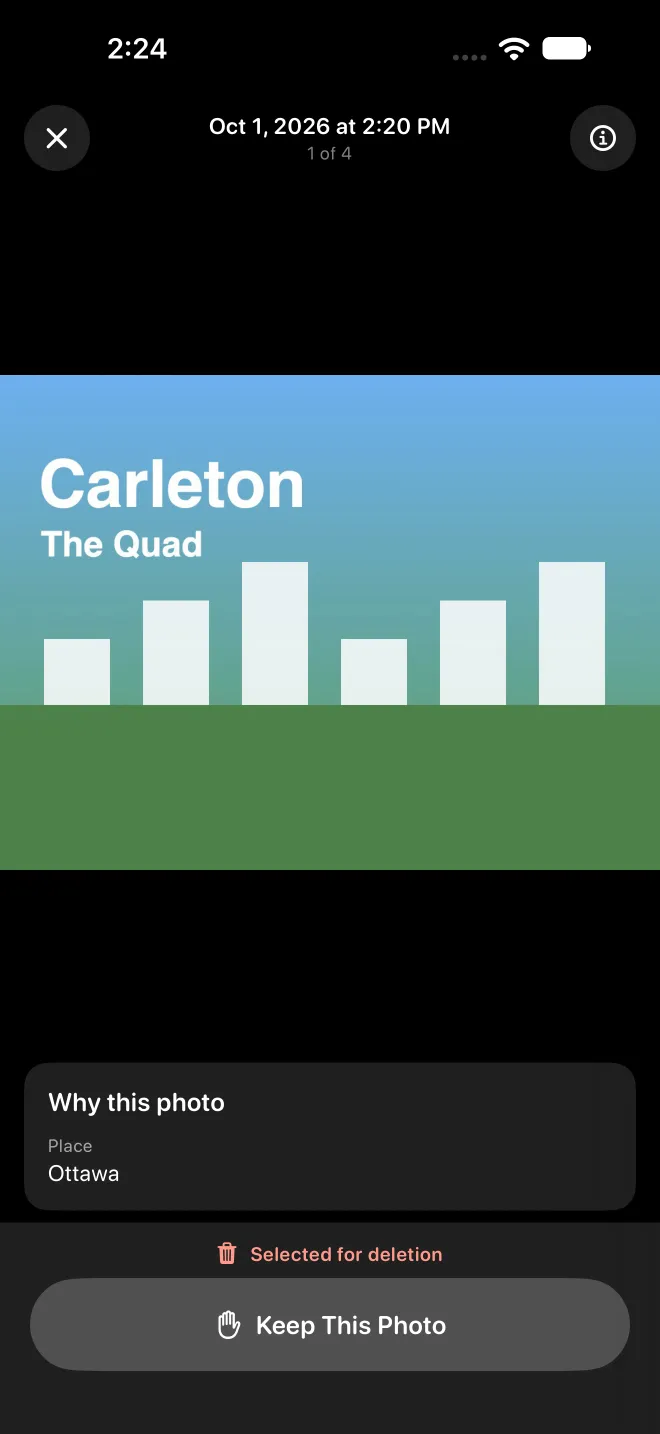
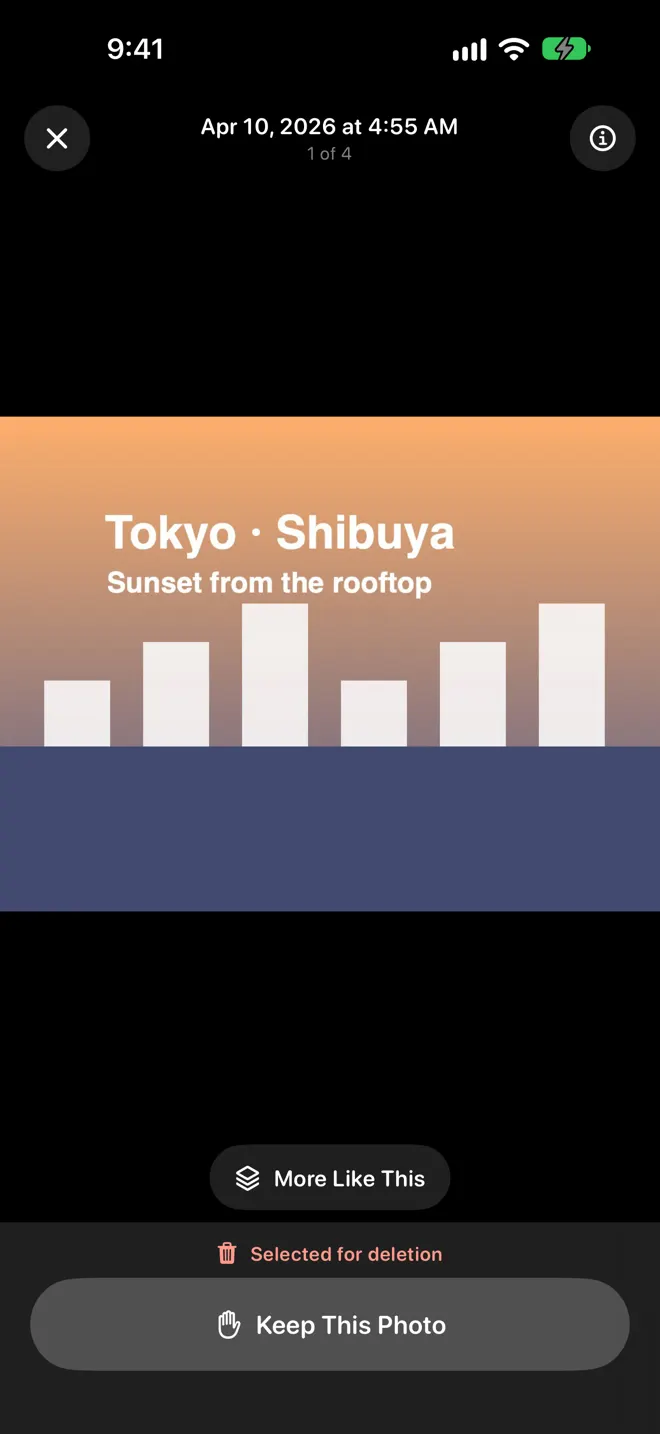
Remove university name from the PhotoAgent page (#33)
* Remove university name from the PhotoAgent page

Use Tokyo as the place example in all six PhotoAgent dictionaries and move
the Person JSON-LD (which lists alumniOf) from the root layout to the
resume and posts pages, so /photoagent no longer names the school.

* PhotoAgent page: screenshots with Tokyo photos instead of the university

diff --git a/src/components/photoagent/dictionaries/zh.ts b/src/components/photoagent/dictionaries/zh.ts
@@ -121,7 +121,7 @@ export const zh: Dictionary = {
             duplicates: { title: '重复和相似', body: '把重复和几乎一样的照片、视频归成一组，并标出每组最好的一张。' },
             screenshots: { title: '截图和杂项', body: '旧截图、二维码、收据和菜单、模糊照片。' },
             videos: { title: '大视频', body: '一分钟以上的视频，按时长从长到短。' },
-            places: { title: '地点', body: '国家、省份、城市、校园和地标：“我在卡尔顿大学拍的照片”。' },
+            places: { title: '地点', body: '国家、省份、城市、校园和地标：“我在东京拍的照片”。' },
             dates: { title: '日期', body: '“去年夏天”“三年前”“2020 年圣诞节”“春节”。' },
             albums: { title: '相册', body: '把结果存成“照片”App 里的相册，可以撤销。' },
             favorites: { title: '收藏和隐藏', body: '一次收藏或隐藏一整组照片，可以撤销。' },
@@ -138,7 +138,7 @@ export const zh: Dictionary = {
         description: '在 iOS 模拟器里用示例图片截取。',
         shots: {
             home: '首页：直接问，或者从清理卡片开始',
-            results: '“帮我删除我在卡尔顿大学拍的照片”的结果',
+            results: '“帮我删除我在东京拍的照片”的结果',
             review: '查看：挑出要删的',
             confirm: '第一次确认，显示总大小',
             duplicates: '重复照片，标出了最好的一张',

diff --git a/src/components/photoagent/dictionaries/es.ts b/src/components/photoagent/dictionaries/es.ts
@@ -144,7 +144,7 @@ export const es: Dictionary = {
             videos: { title: 'Videos grandes', body: 'Videos de un minuto o más, del más largo al más corto.' },
             places: {
                 title: 'Lugares',
-                body: 'Países, provincias, ciudades, campus y lugares de interés: “fotos que tomé en la Universidad de Carleton”.',
+                body: 'Países, provincias, ciudades, campus y lugares de interés: “fotos que tomé en Tokio”.',
             },
             dates: { title: 'Fechas', body: '“El verano pasado”, “hace 3 años”, “Navidad de 2020”, “Año Nuevo chino”.' },
             albums: { title: 'Álbumes', body: 'Guarda los resultados como un álbum en Fotos, con opción de deshacer.' },
@@ -171,7 +171,7 @@ export const es: Dictionary = {
         description: 'Tomadas en el simulador de iOS con imágenes de ejemplo. Las pantallas están en inglés.',
         shots: {
             home: 'Inicio: pregunta o empieza por una limpieza',
-            results: 'Resultados de “Borra las fotos que tomé en la Universidad de Carleton”',
+            results: 'Resultados de “Borra las fotos que tomé en Tokio”',
             review: 'Revisión: elige qué se va',
             confirm: 'La primera confirmación, con el tamaño total',
             duplicates: 'Duplicados, con la mejor toma marcada',

diff --git a/src/components/photoagent/dictionaries/fr.ts b/src/components/photoagent/dictionaries/fr.ts
@@ -145,7 +145,7 @@ export const fr: Dictionary = {
             videos: { title: 'Grosses vidéos', body: 'Les vidéos d’une minute ou plus, de la plus longue à la plus courte.' },
             places: {
                 title: 'Lieux',
-                body: 'Pays, provinces, villes, campus et lieux connus : « les photos prises à l’Université Carleton ».',
+                body: 'Pays, provinces, villes, campus et lieux connus : « les photos prises à Tokyo ».',
             },
             dates: { title: 'Dates', body: '« L’été dernier », « il y a 3 ans », « Noël 2020 », « Nouvel An chinois ».' },
             albums: { title: 'Albums', body: 'Enregistrez les résultats comme album dans Photos, avec Annuler.' },
@@ -172,7 +172,7 @@ export const fr: Dictionary = {
         description: 'Prises dans le simulateur iOS avec des images d’exemple. Les écrans sont en anglais.',
         shots: {
             home: 'Accueil : demandez, ou partez d’un tri',
-            results: 'Résultats de « Supprime les photos prises à l’Université Carleton »',
+            results: 'Résultats de « Supprime les photos prises à Tokyo »',
             review: 'Vérification : choisissez ce qui part',
             confirm: 'La première confirmation, avec la taille totale',
             duplicates: 'Doublons, avec la meilleure prise marquée',

diff --git a/src/components/photoagent/dictionaries/en.ts b/src/components/photoagent/dictionaries/en.ts
@@ -308,7 +308,7 @@ export const en: Dictionary = {
             videos: { title: 'Large videos', body: 'Videos of a minute or longer, longest first.' },
             places: {
                 title: 'Places',
-                body: 'Countries, provinces, cities, campuses and landmarks: “photos I took at Carleton University”.',
+                body: 'Countries, provinces, cities, campuses and landmarks: “photos I took in Tokyo”.',
             },
             dates: { title: 'Dates', body: '“Last summer”, “3 years ago”, “Christmas 2020”, “Spring Festival”.' },
             albums: { title: 'Albums', body: 'Save the results as an album in Photos, with Undo.' },
@@ -335,7 +335,7 @@ export const en: Dictionary = {
         description: 'Taken in the iOS Simulator with sample pictures.',
         shots: {
             home: 'Home: ask, or start from a cleanup',
-            results: 'Results for “Delete the photos I took at Carleton University”',
+            results: 'Results for “Delete the photos I took in Tokyo”',
             review: 'Review: pick what goes',
             confirm: 'The first confirmation, with the total size',
             duplicates: 'Duplicates, with the best shot marked',

diff --git a/src/app/layout.tsx b/src/app/layout.tsx
@@ -33,23 +33,6 @@ export const metadata: Metadata = {
   },
 };
 
-const personJsonLd = {
-  "@context": "https://schema.org",
-  "@type": "Person",
-  name: RESUME_DATA.name,
-  url: RESUME_DATA.personalWebsiteUrl,
-  image: RESUME_DATA.avatarUrl,
-  email: `mailto:${RESUME_DATA.contact.email}`,
-  jobTitle: "Software Engineer",
-  description: RESUME_DATA.summary,
-  alumniOf: RESUME_DATA.education.map((education) => ({
-    "@type": "CollegeOrUniversity",
-    name: education.school,
-  })),
-  knowsAbout: RESUME_DATA.skills,
-  sameAs: RESUME_DATA.contact.social.map((social) => social.url),
-};
-
 export default function RootLayout({
   children,
 }: {
@@ -62,10 +45,6 @@ export default function RootLayout({
       suppressHydrationWarning
     >
       <body>
-        <script
-          type="application/ld+json"
-          dangerouslySetInnerHTML={{ __html: JSON.stringify(personJsonLd) }}
-        />
         <ThemeProvider attribute="class" defaultTheme="system" enableSystem>
           {children}
         </ThemeProvider>

diff --git a/src/components/person-json-ld.tsx b/src/components/person-json-ld.tsx
@@ -1,0 +1,29 @@
+import { RESUME_DATA } from "@/data/resume-data";
+
+// Person structured data for the résumé and posts pages. Kept out of the root
+// layout so app product pages (e.g. /photoagent) don't carry résumé details.
+const personJsonLd = {
+  "@context": "https://schema.org",
+  "@type": "Person",
+  name: RESUME_DATA.name,
+  url: RESUME_DATA.personalWebsiteUrl,
+  image: RESUME_DATA.avatarUrl,
+  email: `mailto:${RESUME_DATA.contact.email}`,
+  jobTitle: "Software Engineer",
+  description: RESUME_DATA.summary,
+  alumniOf: RESUME_DATA.education.map((education) => ({
+    "@type": "CollegeOrUniversity",
+    name: education.school,
+  })),
+  knowsAbout: RESUME_DATA.skills,
+  sameAs: RESUME_DATA.contact.social.map((social) => social.url),
+};
+
+export function PersonJsonLd() {
+  return (
+    <script
+      type="application/ld+json"
+      dangerouslySetInnerHTML={{ __html: JSON.stringify(personJsonLd) }}
+    />
+  );
+}

diff --git a/src/app/page.tsx b/src/app/page.tsx
@@ -9,10 +9,12 @@ import { TokenUsage } from "@/components/resume/token-usage";
 import { Projects } from "@/components/resume/projects";
 import { Research } from "@/components/resume/research";
 import { Heatmap } from "@/components/resume/heatmap";
+import { PersonJsonLd } from "@/components/person-json-ld";
 
 export default function Page() {
   return (
     <main className="min-h-screen bg-background font-sans antialiased">
+      <PersonJsonLd />
       <Header />
       <div className="relative mx-auto max-w-screen-lg px-4 pb-16 pt-6 md:px-16 md:pt-10 print:p-0">
         <div className="mx-auto w-full space-y-12 bg-background md:space-y-14 print:space-y-6">

diff --git a/src/components/photoagent/dictionaries/ja.ts b/src/components/photoagent/dictionaries/ja.ts
@@ -143,7 +143,7 @@ export const ja: Dictionary = {
         description: 'iOS シミュレータでサンプル画像を使って撮影しました。画面は英語版です。',
         shots: {
             home: 'ホーム：たずねるか、整理カードから始める',
-            results: '「カールトン大学で撮った写真を削除」の結果',
+            results: '「東京で撮った写真を削除」の結果',
             review: 'レビュー：消す写真を選ぶ',
             confirm: '1 回目の確認と合計サイズ',
             duplicates: '重複写真。一番よい 1 枚に印',

diff --git a/src/components/photoagent/dictionaries/ko.ts b/src/components/photoagent/dictionaries/ko.ts
@@ -142,7 +142,7 @@ export const ko: Dictionary = {
         description: 'iOS 시뮬레이터에서 샘플 이미지로 찍었습니다. 화면은 영어판입니다.',
         shots: {
             home: '홈: 물어보거나 정리 카드에서 시작',
-            results: '“칼턴 대학교에서 찍은 사진 삭제” 결과',
+            results: '“도쿄에서 찍은 사진 삭제” 결과',
             review: '검토: 지울 사진 고르기',
             confirm: '첫 번째 확인과 전체 크기',
             duplicates: '중복 사진, 가장 좋은 한 장 표시',

diff --git a/src/app/posts/layout.tsx b/src/app/posts/layout.tsx
@@ -1,4 +1,5 @@
 import { PostsHeader } from "@/components/posts-header";
+import { PersonJsonLd } from "@/components/person-json-ld";
 
 export default function PostsLayout({
   children,
@@ -7,6 +8,7 @@ export default function PostsLayout({
 }) {
   return (
     <div className="min-h-screen bg-background font-sans antialiased text-foreground">
+      <PersonJsonLd />
       <PostsHeader />
       {children}
     </div>
